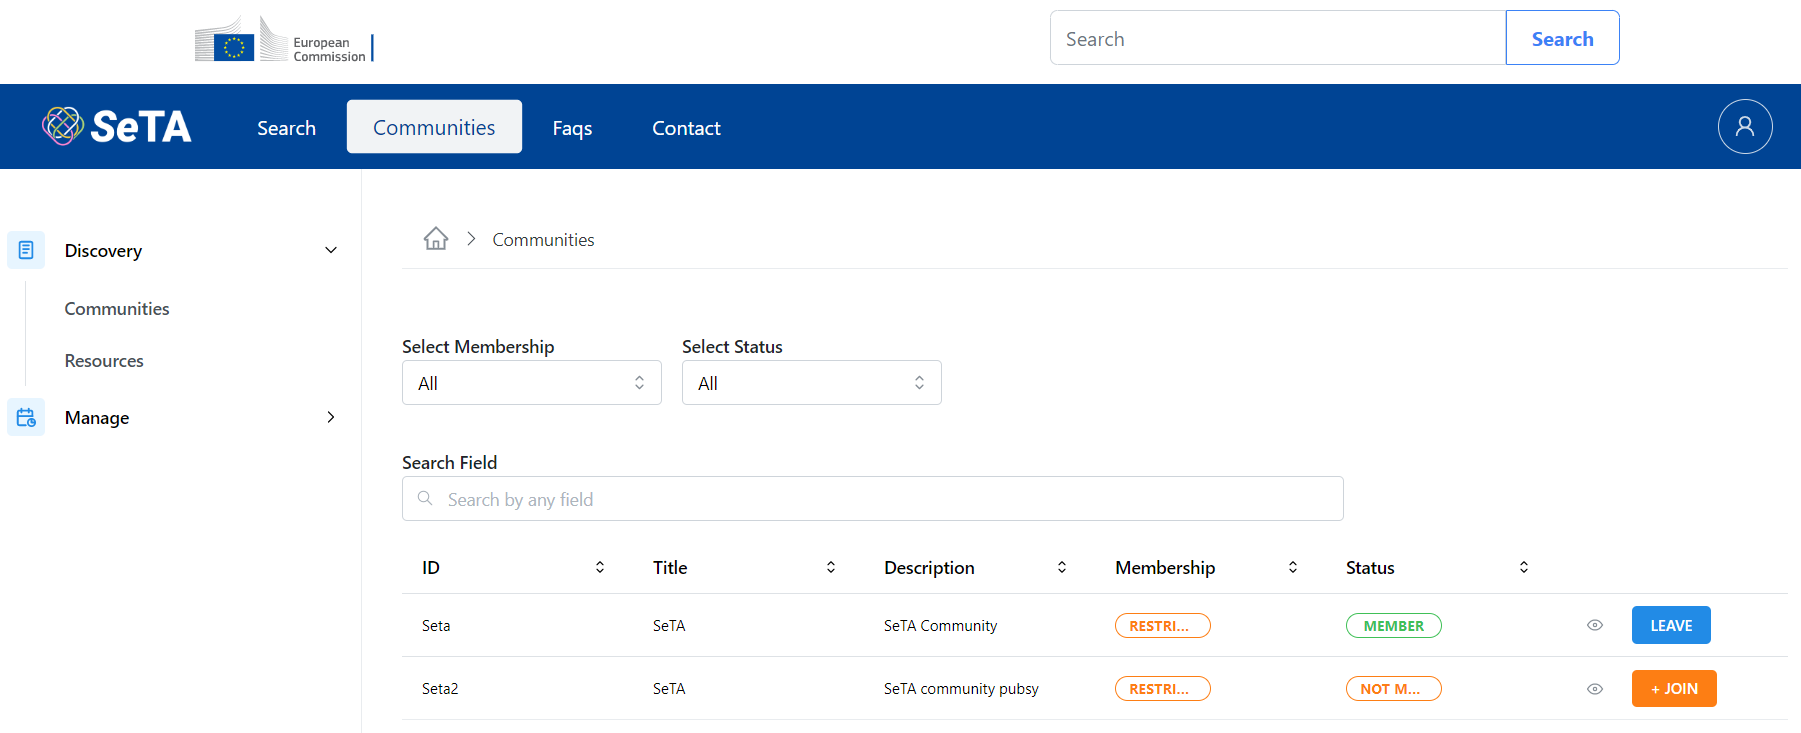
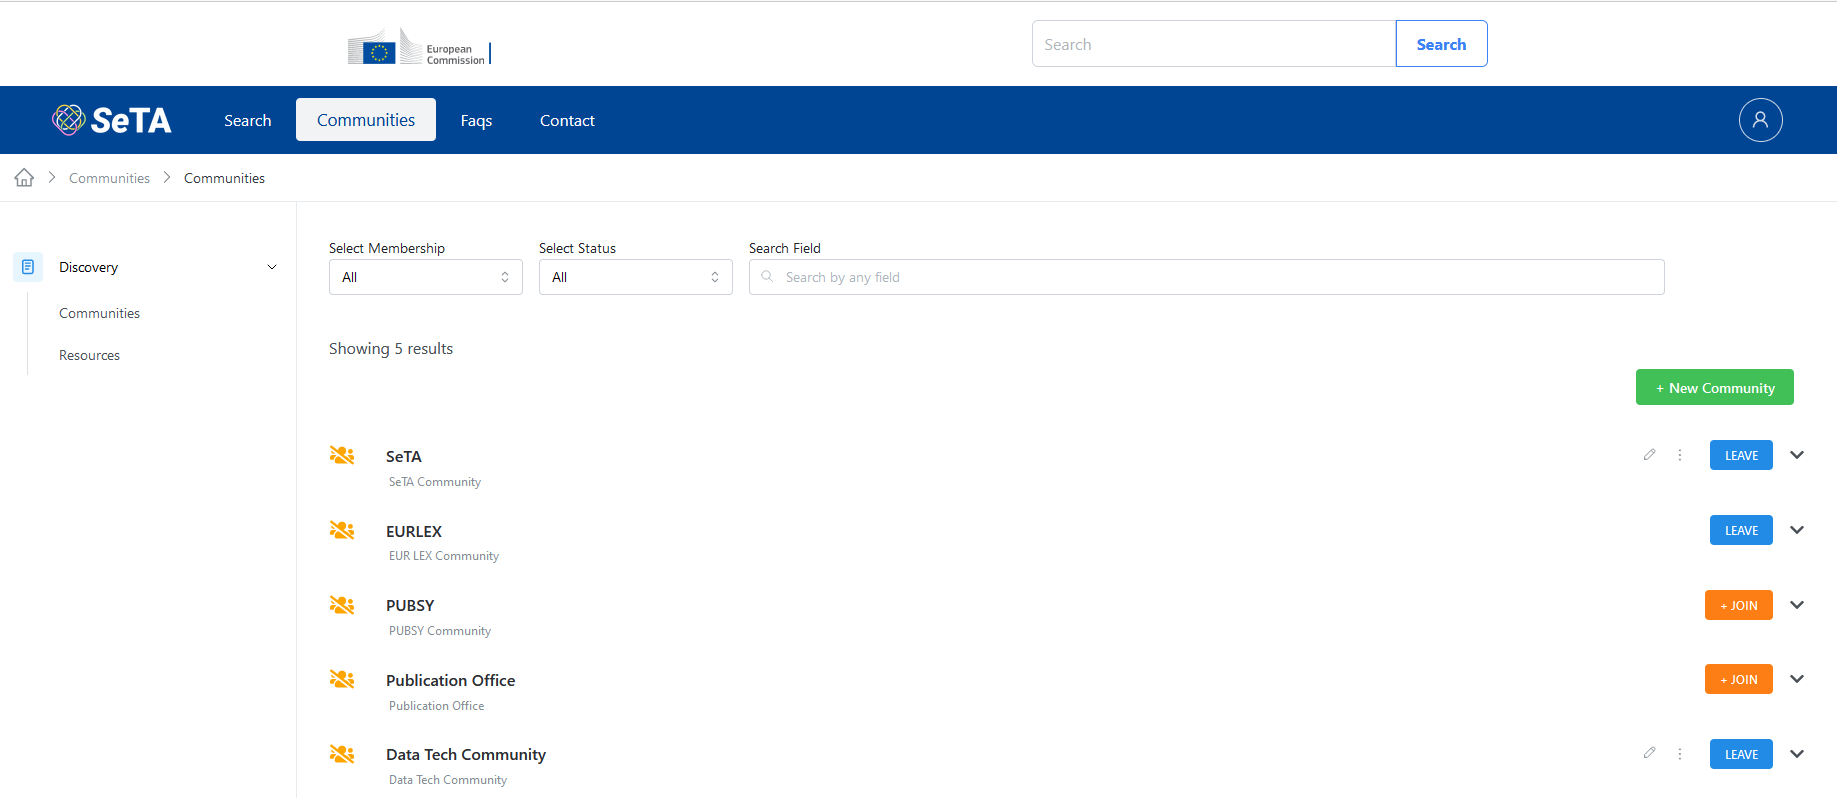
update of docs section

diff --git a/seta-doc/docs/user-guide/communities.md b/seta-doc/docs/user-guide/communities.md
@@ -9,17 +9,12 @@ In the SeTA web application, we have two types of communities: public communitie
 
 ## Discover Communities
 
-On the main page of the Communities, it is possible to see, two side panels on the left side: *Discovery* and *Manage* and in the centre, the list of the Communities.
+On the main page of the Communities, it is possible to see the list of the Communities.
 
-On **Discovery** panel it is possible to access to:
+From this page it is possible to access to:
 
 - Communities *(List of available Communities)*        
 - Resources *(The Resources related to those communities)*        
-
-On **Manage** panel it is possible to access to:             
-
-- My Communities                 
-- My Resources               
 
 <figure markdown>
   ![Image title](../img/seta_communities.png)
@@ -29,8 +24,7 @@ On **Manage** panel it is possible to access to:
    
 ## Create a Community
                      
-1. From the side panel click on ^^Manage^^ -> ^^My Communities^^.  
-2. Click on the top right bottom ^^New Community^^.  
+1. From the main panel click on the top right bottom ^^New Community^^.  
 3. Enter the Community id, Title and Description.  
 4. Click Save.         
 
@@ -47,56 +41,19 @@ On **Manage** panel it is possible to access to:
 
 ## List of Communities
 
-1. From the side menu click on ^^Manage^^ -> ^^My Communities^^.   
-2. You will see a list of the Communities in the page.
-3. You can enter in the search bar the name of the Community you are looking for.                 
+1. You will see a list of the Communities in the page.   
+2.  You can enter in the search bar the name of the Community you are looking for.                  
 <figure markdown>
   ![Image title](../img/communities_list.png)
   <figcaption>Communities</figcaption>
 </figure>
 
-## List of My Communities
-
-1. From the side menu click on ^^Manage^^ -> ^^My Communities^^.   
-2. You will see a list of the Communities in the page.
-3. You can enter in the search bar the name of the Community you are looking for.                  
-
-<figure markdown>
-  ![Image title](../img/my_communities.png)
-  <figcaption>My Communities</figcaption>
-</figure>
-
 ## Details of a Community                
                         
-### From Communities
-
-1. From the side menu click on ^^Discovery^^ -> ^^Communities^^.  
-2. You can either enter in the search bar the name of the Community you are looking for or select from the Community list.  
-3. Click on :octicons-eye-24: at the right side of the Community row.  
-4. If you are a member or the community, you will be redirect to the Community Details page.  
-5. If you are not a member of the Community you will only see a pop-up window with a brief information about the community.          
-
-### From My Communities
-
-1. From the side menu click on ^^Manage^^ -> ^^My Communities^^.  
-2. You can either enter in the search bar the name of the Community you are looking for or select from the Community list.  
-3. Click on :material-dots-horizontal: at the right side of button ^^Invite^^ and select the option ^^:octicons-eye-24: View Details^^.  
-4. In the next window, you will see the Details page of the Community.        
-
-<figure markdown>
-  ![Image title](../img/seta_communities.png)
-  <figcaption>Community Details</figcaption>
-</figure>
-
-<figure markdown>
-  ![Image title](../img/communities_details_page.png)
-  <figcaption>Community Details for Members</figcaption>
-</figure>
-
-<figure markdown>
-  ![Image title](../img/communities_details_noMember.png)
-  <figcaption>Community details for no Members</figcaption>
-</figure>
+1. You can either enter in the search bar the name of the Community you are looking for or select from the Community list.  
+2. Click on :octicons-eye-24: at the right side of the Community row.  
+3. If you are a member or the community, you will be redirect to the Community Details page.  
+4. If you are not a member of the Community you will only see a pop-up window with a brief information about the community.          
 
 ## Delete a Community
 
